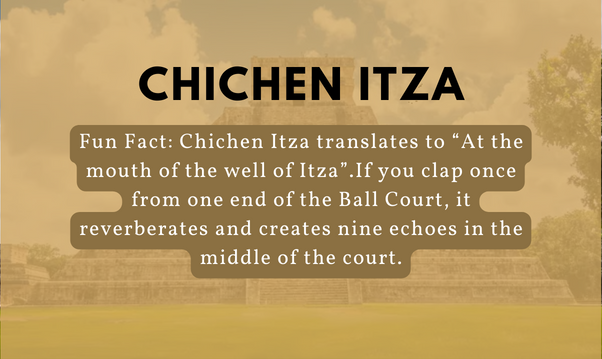
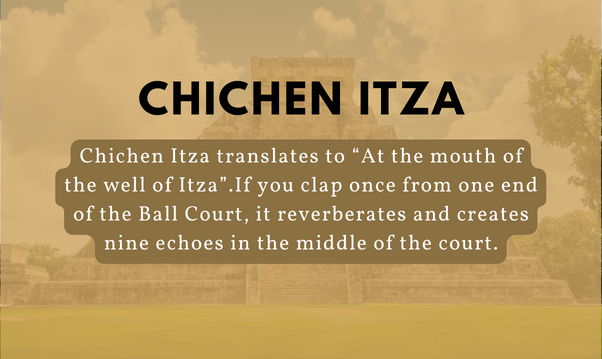
update fact images

Changed region(s): [[0.0897, 0.1838, 0.9269, 0.7967]]

diff --git a/app.js b/app.js
@@ -29,31 +29,31 @@ const cards = [
 },
 {
     name: 'Chichen-Itza',
-    img:'images/Chichen-Itza.png',
+    img:'images/Chichen-Fact.png',
 },
 {
     name: 'Christ-Redeemer',
-    img:'images/Christ-Redeemer.png',
+    img:'images/Christ-Fact.png',
 },
 {
     name: 'Colosseum',
-    img:'images/Colosseum.png',
+    img:'images/Col-Fact.png',
 },
 {
     name: 'Great-Wall',
-    img:'images/Great-Wall.png',
+    img:'images/China-Fact.png',
 },
 {
     name: 'Machu-Picchu',
-    img:'images/Machu-Picchu.png',
+    img:'images/Machu-Fact.png',
 },
 {
     name: 'Petra',
-    img:'images/Petra.png',
+    img:'images/Petra-Fact.png',
 },
 {
     name: 'Taj-Mahal',
-    img:'images/Taj-Mahal.png',
+    img:'images/Taj-Fact.png',
 },
 
 

diff --git a/styles.css b/styles.css
@@ -4,6 +4,6 @@
     flex-wrap: wrap;
 }
 img{ 
-    width:250px;
-    height:180px
+    width:260px;
+    height:185px
 }
